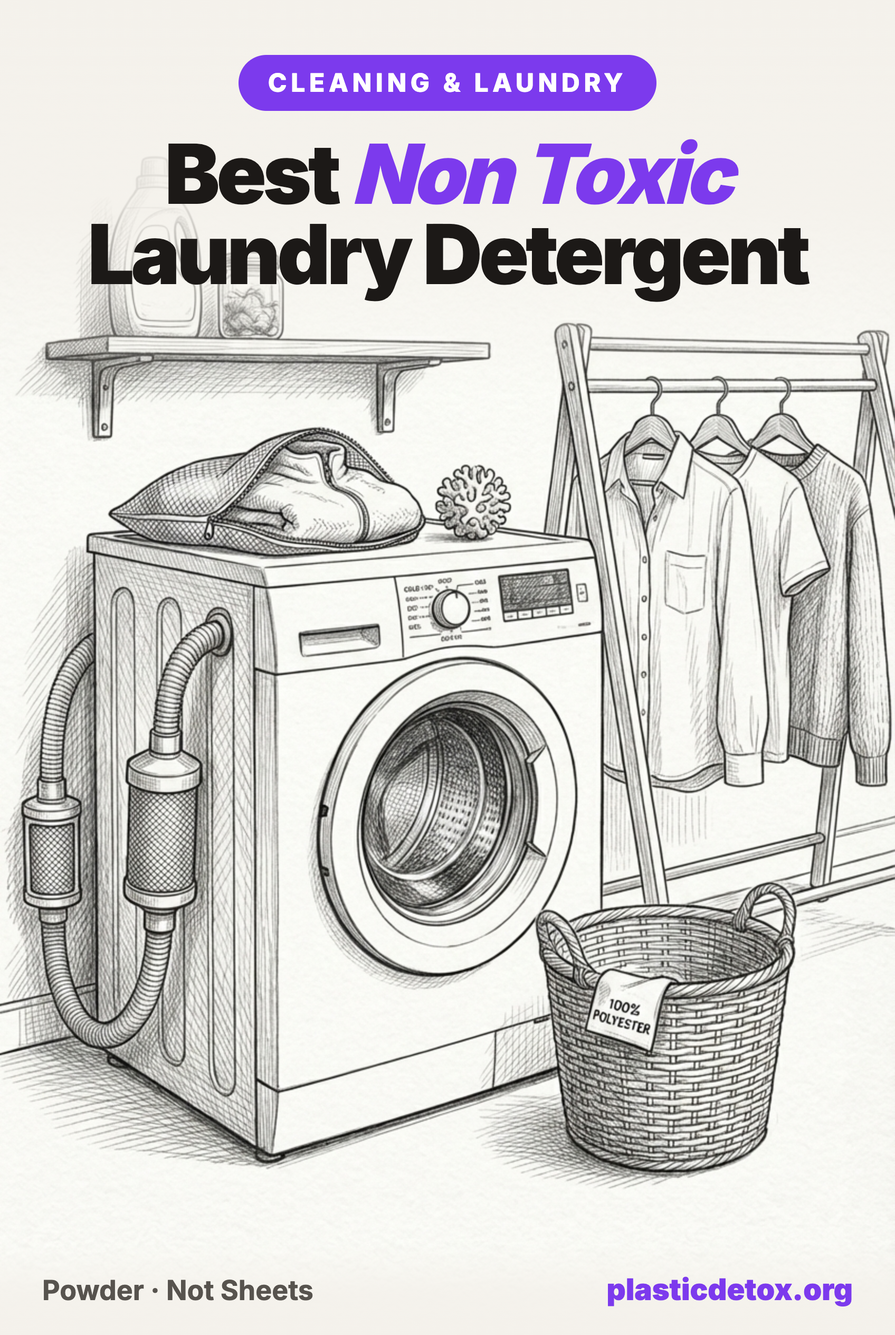
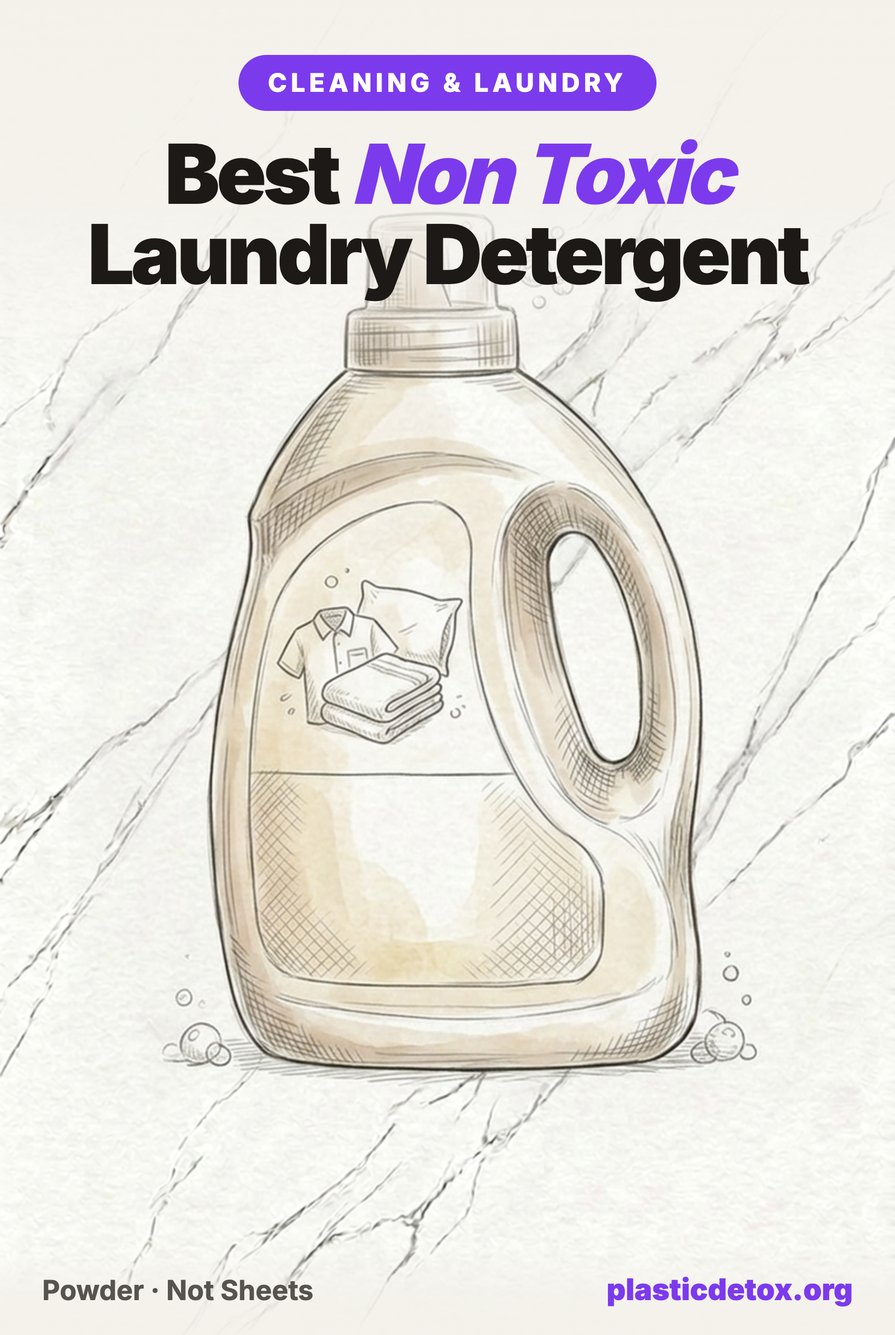
Laundry detergent hero: rebuild on the detergent illustration

diff --git a/images/best-non-toxic-laundry-detergent-article-hero.html b/images/best-non-toxic-laundry-detergent-article-hero.html
@@ -76,7 +76,7 @@
 </head>
 <body>
   <div class="pin">
-    <img src="laundry.png" alt="Illustration of a laundry room with a washing machine, detergent on a shelf, a drying rack and a basket tagged 100 percent polyester">
+    <img src="detergent.png" alt="Illustration of a laundry detergent bottle on marble">
     <div class="top-overlay">
       <div class="headline-tag">Cleaning &amp; Laundry</div>
       <h1>Best <span class="accent">Non&nbsp;Toxic</span><br>Laundry Detergent</h1>
